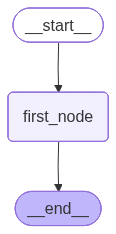
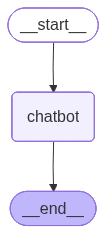
feat(langgraph-chat): integrate OpenAI GPT-4o-mini LLM and fix state message handling
- Replace random noun+adjective generator with ChatOpenAI(model="gpt-4o-mini") integration
- Rename our_first_node to chatbot_node with llm.invoke() for real AI responses
- Fix State model field name from 'message' to 'messages' (plural) for consistency
- Update graph nodes from "first_node" to "chatbot" throughout workflow
- Simplify chat() function by removing intermediate message variable
- Update graph.png

diff --git a/32-langgraph-chat/basic-chat.py b/32-langgraph-chat/basic-chat.py
@@ -20,16 +20,18 @@ class State(BaseModel):
 
 graph_builder = StateGraph(State)
 
-llm = ChatOpenAI(model="gpt-4o-mini")
+def our_first_node(old_state: State) -> State:
+    
+    reply = f"{random.choice(nouns)} are {random.choice(adjectives)}"
+    messages = [{"role": "assistant", "content": reply}]
 
-def chatbot_node(old_state: State) -> State:
-    response = llm.invoke(old_state.messages)
-    new_state = State(messages=[response])
+    new_state = State(messages=messages)
+
     return new_state
 
-graph_builder.add_node("chatbot", chatbot_node)
-graph_builder.add_edge(START, "chatbot")
-graph_builder.add_edge("chatbot", END)
+graph_builder.add_node("first_node", our_first_node)
+graph_builder.add_edge(START, "first_node")
+graph_builder.add_edge("first_node", END)
 
 graph = graph_builder.compile()
 
@@ -58,10 +60,12 @@ def save_graph_image():
         print("Display not available in console mode")
 
 def chat(user_input: str, history):
-    initial_state = State(messages=[{"role": "user", "content": user_input}])
-    result = graph.invoke(initial_state)
+    message = {"role": "user", "content": user_input}
+    messages = [message]
+    state = State(messages=messages)
+    result = graph.invoke(state)
     print(result)
-    return result['messages'][-1].content
+    return result["messages"][-1].content
 
 def main():
     # save_graph_image()
